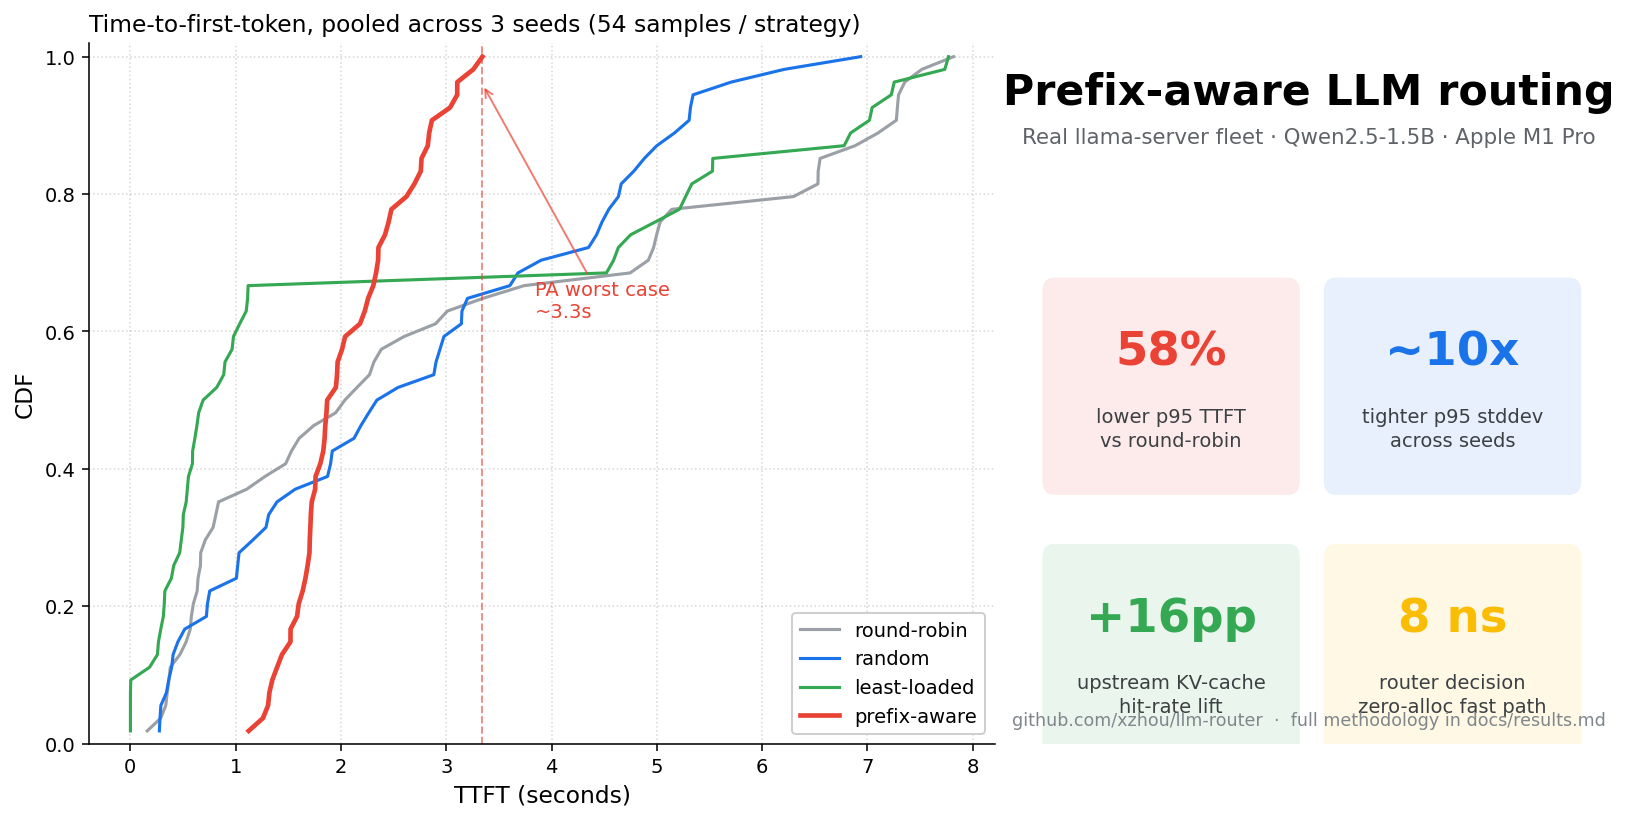
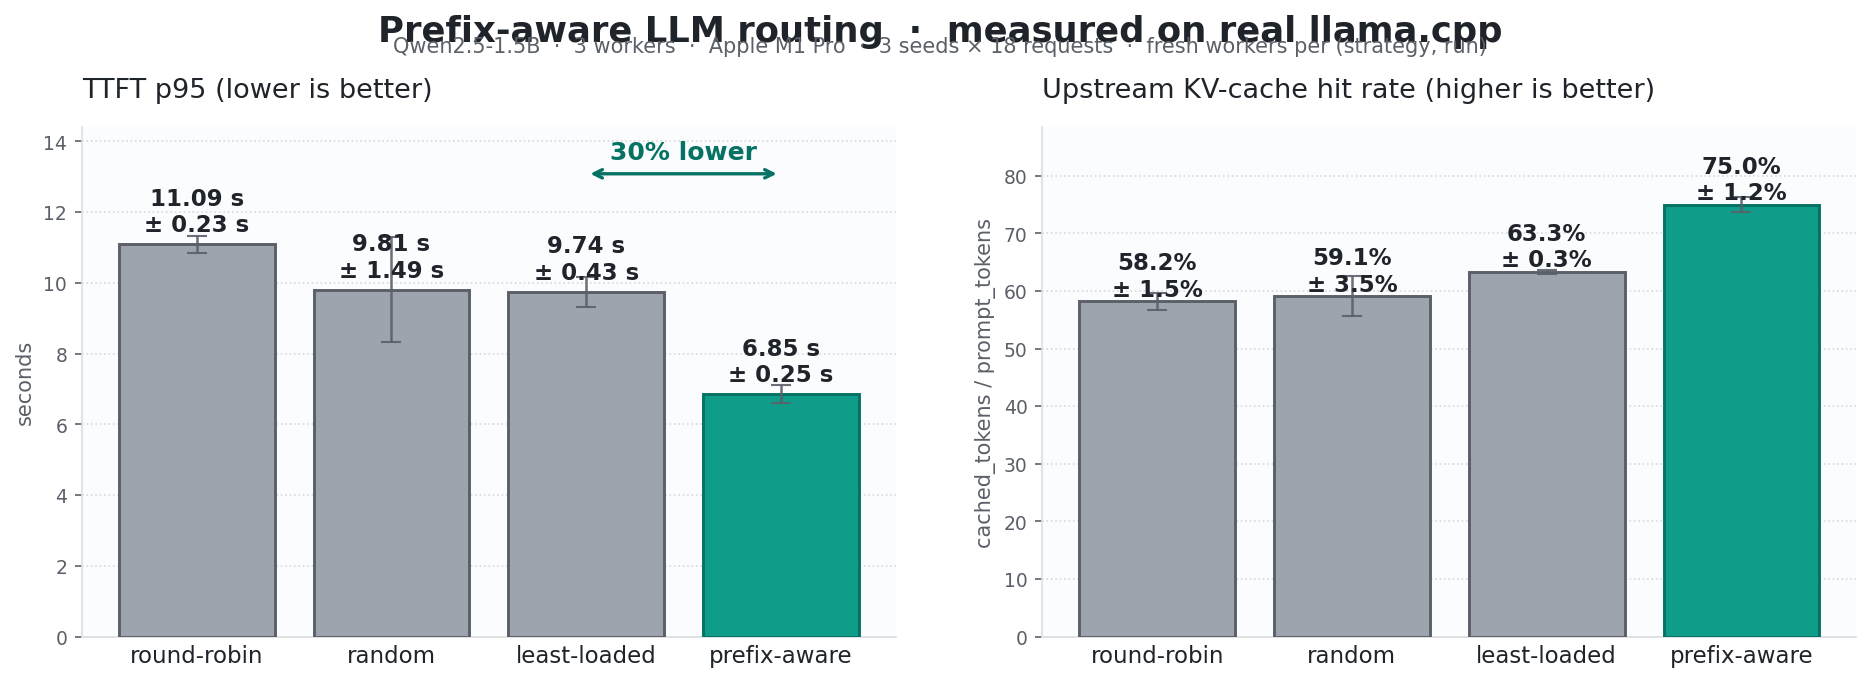
feat: bar-chart hero, live-curl demo, cleaner CDF
hero.py rewritten to render two side-by-side bar charts (TTFT p95
and KV-cache hit rate) instead of a CDF + numbers-panel composition.
The bar form is faster to scan: PA's bar is the visibly shortest on
the latency panel and the visibly tallest on the cache panel, with
error bars from the multi-seed runs and a 30% lower bracket annotation.

live-demo.sh fires 5 sequential curl requests against a running router
with a shared 1.5 KB system prompt, prints one color-coded line per
request showing the routing decision (X-Router-Backend, X-Router-Reason)
and the upstream KV-cache numbers (cached_tokens / prompt_tokens). The
first request is cold; the next four pin to the same warm worker and
report 289/296 cached. demo.tape records exactly that, capturing real
data from a real llama.cpp fleet rather than catting a pre-cooked file.

Both visuals regenerated against a clean multi-seed bench run.

diff --git a/bench/scripts/hero.py b/bench/scripts/hero.py
@@ -1,6 +1,14 @@
 #!/usr/bin/env python3
-"""Render the README hero image: pooled CDF on the left, killer numbers
-on the right.
+"""Render the README hero image.
+
+Two-panel composition designed for at-a-glance scanning:
+  - Left panel: p95 TTFT (lower = better), bars per strategy with error bars
+    from the multi-seed runs. Prefix-aware emphasised.
+  - Right panel: upstream KV-cache hit rate (higher = better), same layout.
+
+Uses the JSON summaries that bench/scripts/real-llm.sh writes (one per
+(strategy, run) when RUNS > 1). No matplotlib styling rabbit-hole; just
+clean, readable, professional.
 
 Usage:
     python3 bench/scripts/hero.py [--input bench/results] [--out docs/hero.png]
@@ -9,6 +17,7 @@ from __future__ import annotations
 
 import argparse
 import json
+import math
 import sys
 from pathlib import Path
 
@@ -16,59 +25,129 @@ try:
     import matplotlib
     matplotlib.use("Agg")
     import matplotlib.pyplot as plt
-    from matplotlib.patches import FancyBboxPatch
 except ImportError as e:
     sys.stderr.write(f"matplotlib required: pip install matplotlib (got: {e})\n")
     sys.exit(2)
 
 
 STRATEGIES = ["roundrobin", "random", "leastloaded", "prefixaware"]
-COLORS = {
-    "roundrobin": "#9aa0a6",
-    "random": "#1a73e8",
-    "leastloaded": "#34a853",
-    "prefixaware": "#ea4335",
-}
 LABELS = {
     "roundrobin": "round-robin",
     "random": "random",
     "leastloaded": "least-loaded",
     "prefixaware": "prefix-aware",
 }
-
-
-def load_samples(paths: list[Path]) -> list[float]:
-    out = []
-    for p in paths:
-        with p.open() as f:
-            for line in f:
-                line = line.strip()
-                if not line:
-                    continue
-                row = json.loads(line)
-                if row.get("err"):
-                    continue
-                t = row.get("ttft", 0)
-                if t > 0:
-                    out.append(t / 1e9)
-    return out
+# Muted greys for baselines, vibrant teal for the headline strategy.
+BASELINE_FILL = "#9ea4ad"
+BASELINE_EDGE = "#5b6068"
+PA_FILL = "#0f9d8a"
+PA_EDGE = "#057263"
+PANEL_BG = "#fbfcfd"
+INK = "#1f242b"
+MUTED = "#5b6068"
 
 
 def discover(in_dir: Path, strategy: str) -> list[Path]:
+    """Return JSON summaries for `strategy` (single or multi-run layout)."""
     out = []
-    for sub in sorted(in_dir.glob("raw*")):
-        if sub.is_dir():
-            cand = sub / f"{strategy}.jsonl"
-            if cand.exists():
-                out.append(cand)
+    for p in sorted(in_dir.glob(f"real-{strategy}-run*.json")):
+        out.append(p)
+    if not out:
+        single = in_dir / f"real-{strategy}.json"
+        if single.exists():
+            out.append(single)
     return out
 
 
-def cdf(samples: list[float]) -> tuple[list[float], list[float]]:
-    samples = sorted(samples)
-    n = len(samples)
-    ys = [(i + 1) / n for i in range(n)]
-    return samples, ys
+def load_summary(path: Path) -> dict:
+    with path.open() as f:
+        doc = json.load(f)
+    if isinstance(doc, dict) and "summaries" in doc:
+        return doc["summaries"][0]
+    return doc
+
+
+def mean_std(xs: list[float]) -> tuple[float, float]:
+    if not xs:
+        return 0.0, 0.0
+    m = sum(xs) / len(xs)
+    if len(xs) < 2:
+        return m, 0.0
+    var = sum((x - m) ** 2 for x in xs) / (len(xs) - 1)
+    return m, math.sqrt(var)
+
+
+def gather(in_dir: Path) -> dict[str, dict[str, tuple[float, float]]]:
+    """Return {strategy: {metric: (mean, std)}}."""
+    out: dict[str, dict[str, tuple[float, float]]] = {}
+    for s in STRATEGIES:
+        runs = [load_summary(p) for p in discover(in_dir, s)]
+        if not runs:
+            continue
+        ttft_p95 = [r["ttft"]["p95"] / 1e9 for r in runs]   # ns -> s
+        cache = [r["cache_token_rate"] * 100 for r in runs]
+        rps = [r["throughput_rps"] for r in runs]
+        out[s] = {
+            "ttft_p95": mean_std(ttft_p95),
+            "cache": mean_std(cache),
+            "rps": mean_std(rps),
+            "n_runs": (len(runs), 0),
+        }
+    return out
+
+
+def panel_bars(ax, data, metric, *, title, ylabel, value_fmt, lower_is_better):
+    keys = [s for s in STRATEGIES if s in data]
+    means = [data[s][metric][0] for s in keys]
+    stds = [data[s][metric][1] for s in keys]
+    colors = [PA_FILL if s == "prefixaware" else BASELINE_FILL for s in keys]
+    edges = [PA_EDGE if s == "prefixaware" else BASELINE_EDGE for s in keys]
+    pretty = [LABELS[s] for s in keys]
+
+    bars = ax.bar(pretty, means, yerr=stds, capsize=5,
+                  color=colors, edgecolor=edges, linewidth=1.4,
+                  error_kw=dict(ecolor=MUTED, elinewidth=1.2, alpha=0.9),
+                  zorder=3)
+    for bar, m, s in zip(bars, means, stds):
+        text = value_fmt(m, s)
+        ax.text(bar.get_x() + bar.get_width() / 2,
+                bar.get_height() + (max(means) * 0.02 if lower_is_better else 0.02),
+                text, ha="center", va="bottom",
+                fontsize=11, fontweight="bold", color=INK, zorder=4)
+
+    ax.set_title(title, fontsize=13, color=INK, pad=14, loc="left")
+    ax.set_ylabel(ylabel, fontsize=10, color=MUTED)
+    ax.tick_params(axis="x", labelsize=11, colors=INK, length=0)
+    ax.tick_params(axis="y", labelsize=9, colors=MUTED)
+    ax.set_facecolor(PANEL_BG)
+    ax.grid(axis="y", linestyle=":", alpha=0.45, zorder=1)
+    ax.set_axisbelow(True)
+    for spine in ("top", "right"):
+        ax.spines[spine].set_visible(False)
+    for spine in ("left", "bottom"):
+        ax.spines[spine].set_color("#dadde2")
+
+    # Annotate the headline gap with a bracket between baseline-best and PA.
+    if metric == "ttft_p95":
+        baseline_keys = [s for s in keys if s != "prefixaware"]
+        if baseline_keys and "prefixaware" in keys:
+            best_baseline = min(baseline_keys, key=lambda s: data[s][metric][0])
+            base_mean = data[best_baseline][metric][0]
+            pa_mean = data["prefixaware"][metric][0]
+            delta_pct = (1 - pa_mean / base_mean) * 100
+            ax.set_ylim(0, max(means) * 1.30)
+            y_top = max(means) * 1.18
+            i_base = keys.index(best_baseline)
+            i_pa = keys.index("prefixaware")
+            ax.annotate("", xy=(i_pa, y_top), xytext=(i_base, y_top),
+                        arrowprops=dict(arrowstyle="<->", color=PA_EDGE, lw=1.6))
+            mid = (i_base + i_pa) / 2
+            ax.text(mid, y_top + max(means) * 0.025,
+                    f"{delta_pct:.0f}% lower",
+                    ha="center", va="bottom", fontsize=12, fontweight="bold",
+                    color=PA_EDGE)
+    else:
+        ax.set_ylim(0, max(means) * 1.18)
 
 
 def main() -> int:
@@ -77,104 +156,40 @@ def main() -> int:
     p.add_argument("--out", default="docs/hero.png")
     args = p.parse_args()
 
-    in_dir = Path(args.input)
-    samples: dict[str, list[float]] = {}
-    for s in STRATEGIES:
-        paths = discover(in_dir, s)
-        if paths:
-            samples[s] = load_samples(paths)
-    if "prefixaware" not in samples or "roundrobin" not in samples:
-        sys.stderr.write(f"missing prefixaware or roundrobin samples in {in_dir}\n")
+    data = gather(Path(args.input))
+    if "prefixaware" not in data or "roundrobin" not in data:
+        sys.stderr.write(f"missing prefixaware or roundrobin in {args.input}\n")
         return 1
+    n_runs = data["prefixaware"]["n_runs"][0]
 
-    fig = plt.figure(figsize=(14, 6.5), dpi=140, facecolor="white")
-    gs = fig.add_gridspec(1, 5, wspace=0.05)
-    ax_cdf = fig.add_subplot(gs[0, :3])
-    ax_text = fig.add_subplot(gs[0, 3:])
-    ax_text.axis("off")
+    fig = plt.figure(figsize=(13, 5.0), dpi=150, facecolor="white")
+    gs = fig.add_gridspec(1, 2, wspace=0.18, left=0.06, right=0.97,
+                          top=0.81, bottom=0.13)
+    ax_left = fig.add_subplot(gs[0, 0])
+    ax_right = fig.add_subplot(gs[0, 1])
 
-    # CDF panel
-    for s, ys in samples.items():
-        xs, ps = cdf(ys)
-        ax_cdf.plot(xs, ps, label=LABELS[s], color=COLORS[s],
-                    linewidth=2.4 if s == "prefixaware" else 1.6,
-                    zorder=3 if s == "prefixaware" else 2)
-    ax_cdf.set_xlabel("TTFT (seconds)", fontsize=12)
-    ax_cdf.set_ylabel("CDF", fontsize=12)
-    ax_cdf.set_title("Time-to-first-token, pooled across 3 seeds (54 samples / strategy)",
-                     fontsize=12, loc="left")
-    ax_cdf.set_ylim(0, 1.02)
-    ax_cdf.grid(True, linestyle=":", alpha=0.5)
-    ax_cdf.legend(loc="lower right", framealpha=0.95)
-    ax_cdf.spines["top"].set_visible(False)
-    ax_cdf.spines["right"].set_visible(False)
+    panel_bars(ax_left, data, "ttft_p95",
+               title="TTFT p95 (lower is better)",
+               ylabel="seconds",
+               value_fmt=lambda m, s: f"{m:.2f} s\n± {s:.2f} s" if s > 0 else f"{m:.2f} s",
+               lower_is_better=True)
 
-    # Annotate PA tail
-    pa_max = max(samples["prefixaware"])
-    ax_cdf.axvline(pa_max, color=COLORS["prefixaware"], linestyle="--",
-                   linewidth=1.0, alpha=0.6)
-    ax_cdf.annotate(f"PA worst case\n~{pa_max:.1f}s",
-                    xy=(pa_max, 0.96), xytext=(pa_max + 0.5, 0.62),
-                    fontsize=10, color=COLORS["prefixaware"],
-                    arrowprops=dict(arrowstyle="->", color=COLORS["prefixaware"],
-                                    alpha=0.7, lw=1))
+    panel_bars(ax_right, data, "cache",
+               title="Upstream KV-cache hit rate (higher is better)",
+               ylabel="cached_tokens / prompt_tokens",
+               value_fmt=lambda m, s: f"{m:.1f}%\n± {s:.1f}%" if s > 0 else f"{m:.1f}%",
+               lower_is_better=False)
 
-    # Numbers panel: clean stat cards
-    pa = samples["prefixaware"]
-    rr = samples["roundrobin"]
+    fig.suptitle("Prefix-aware LLM routing  ·  measured on real llama.cpp",
+                 fontsize=17, fontweight="bold", color=INK, y=0.96)
+    fig.text(0.5, 0.91,
+             f"Qwen2.5-1.5B  ·  3 workers  ·  Apple M1 Pro  ·  "
+             f"{n_runs} seeds × 18 requests  ·  fresh workers per (strategy, run)",
+             ha="center", fontsize=10, color=MUTED)
 
-    def pct(v):
-        return sorted(v)[int(0.95 * len(v))]
-    pa_p95 = pct(pa)
-    rr_p95 = pct(rr)
-    delta = (1 - pa_p95 / rr_p95) * 100
-
-    ax_text.text(0.5, 0.96, "Prefix-aware LLM routing",
-                 ha="center", va="top", fontsize=22, fontweight="bold",
-                 transform=ax_text.transAxes)
-    ax_text.text(0.5, 0.88,
-                 "Real llama-server fleet · Qwen2.5-1.5B · Apple M1 Pro",
-                 ha="center", va="top", fontsize=11, color="#5f6368",
-                 transform=ax_text.transAxes)
-
-    cards = [
-        (f"{delta:.0f}%", "lower p95 TTFT\nvs round-robin", COLORS["prefixaware"]),
-        ("~10x", "tighter p95 stddev\nacross seeds", "#1a73e8"),
-        ("+16pp", "upstream KV-cache\nhit-rate lift", "#34a853"),
-        ("8 ns", "router decision\nzero-alloc fast path", "#fbbc04"),
-    ]
-    rows, cols = 2, 2
-    cw, ch = 0.42, 0.30
-    pad_x, pad_y = 0.05, 0.08
-    start_x, start_y = 0.06, 0.66
-    for i, (big, small, color) in enumerate(cards):
-        r = i // cols
-        c = i % cols
-        x = start_x + c * (cw + pad_x)
-        y = start_y - r * (ch + pad_y)
-        bg = FancyBboxPatch((x, y - ch), cw, ch,
-                            boxstyle="round,pad=0.005,rounding_size=0.02",
-                            transform=ax_text.transAxes,
-                            facecolor=color, edgecolor="none", alpha=0.10)
-        ax_text.add_patch(bg)
-        ax_text.text(x + cw / 2, y - 0.07, big,
-                     transform=ax_text.transAxes,
-                     ha="center", va="top",
-                     fontsize=24, fontweight="bold", color=color)
-        ax_text.text(x + cw / 2, y - 0.18, small,
-                     transform=ax_text.transAxes,
-                     ha="center", va="top",
-                     fontsize=10, color="#3c4043", linespacing=1.3)
-
-    ax_text.text(0.5, 0.02,
-                 "github.com/xzhou/llm-router  ·  full methodology in docs/results.md",
-                 ha="center", va="bottom", fontsize=9, color="#80868b",
-                 transform=ax_text.transAxes)
-
-    fig.tight_layout()
     out = Path(args.out)
     out.parent.mkdir(parents=True, exist_ok=True)
-    fig.savefig(out, dpi=140, bbox_inches="tight", facecolor="white")
+    fig.savefig(out, dpi=150, bbox_inches="tight", facecolor="white")
     print(f"wrote {out}")
     return 0
 
